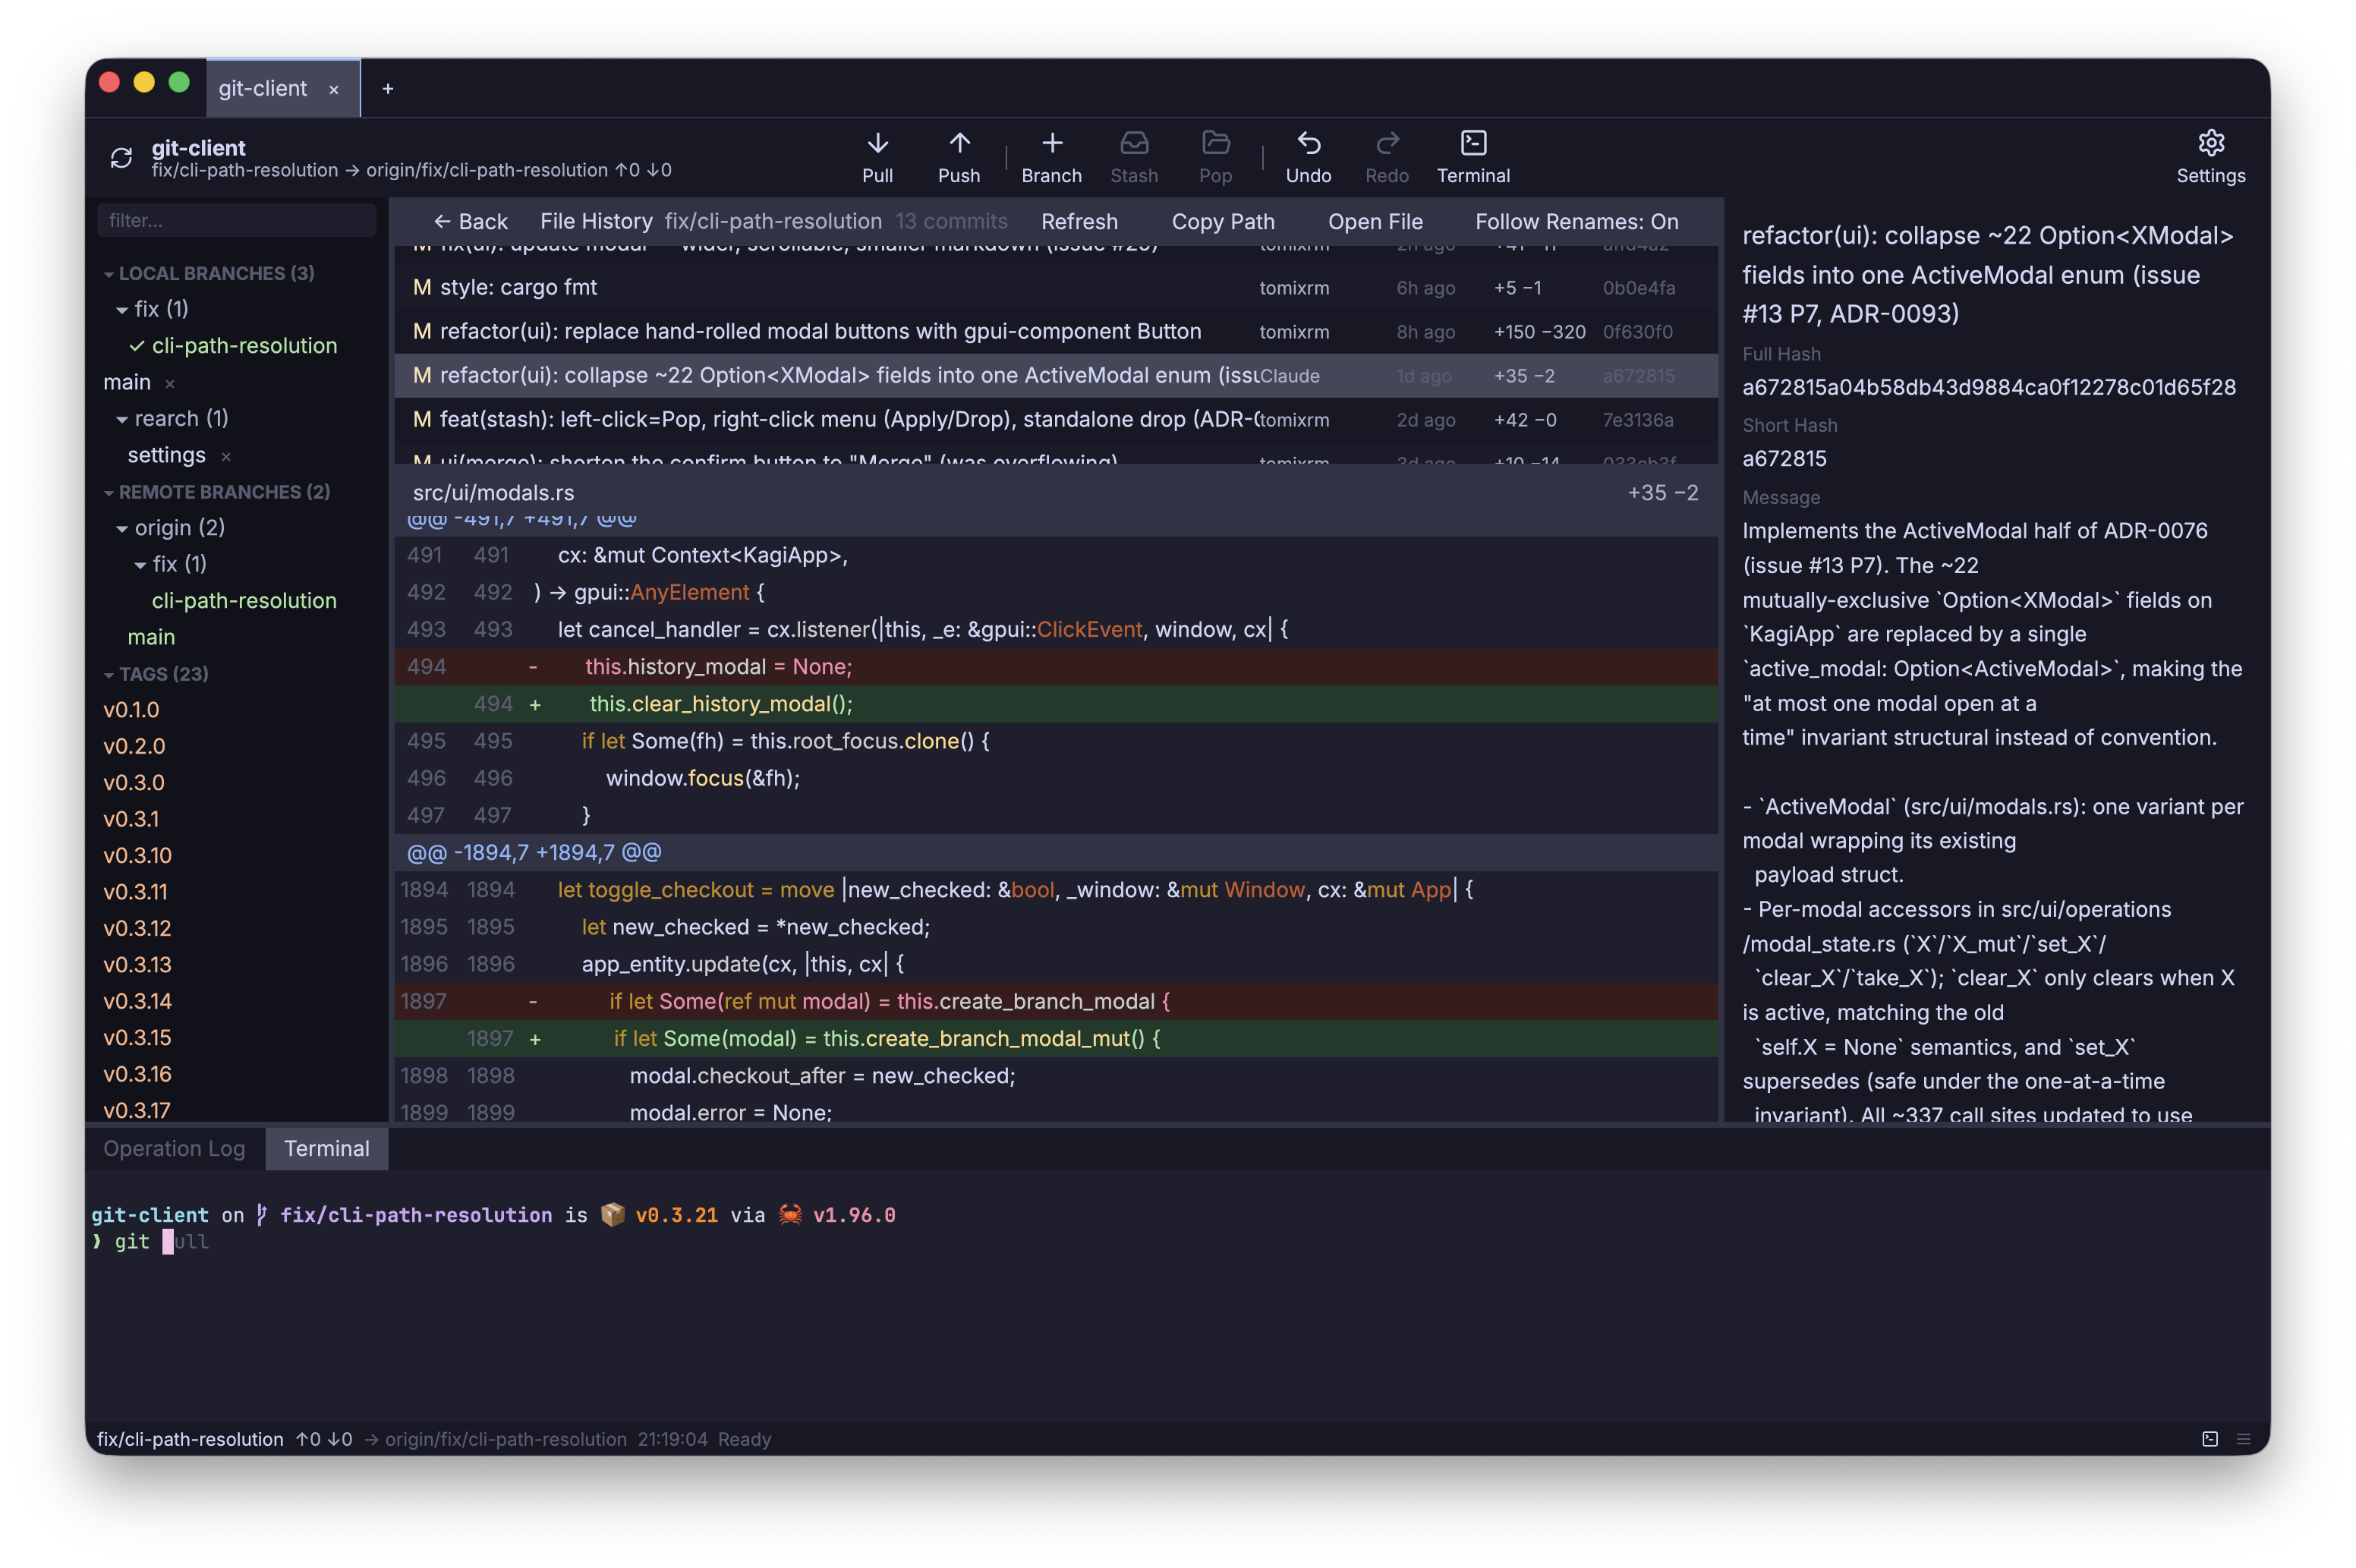
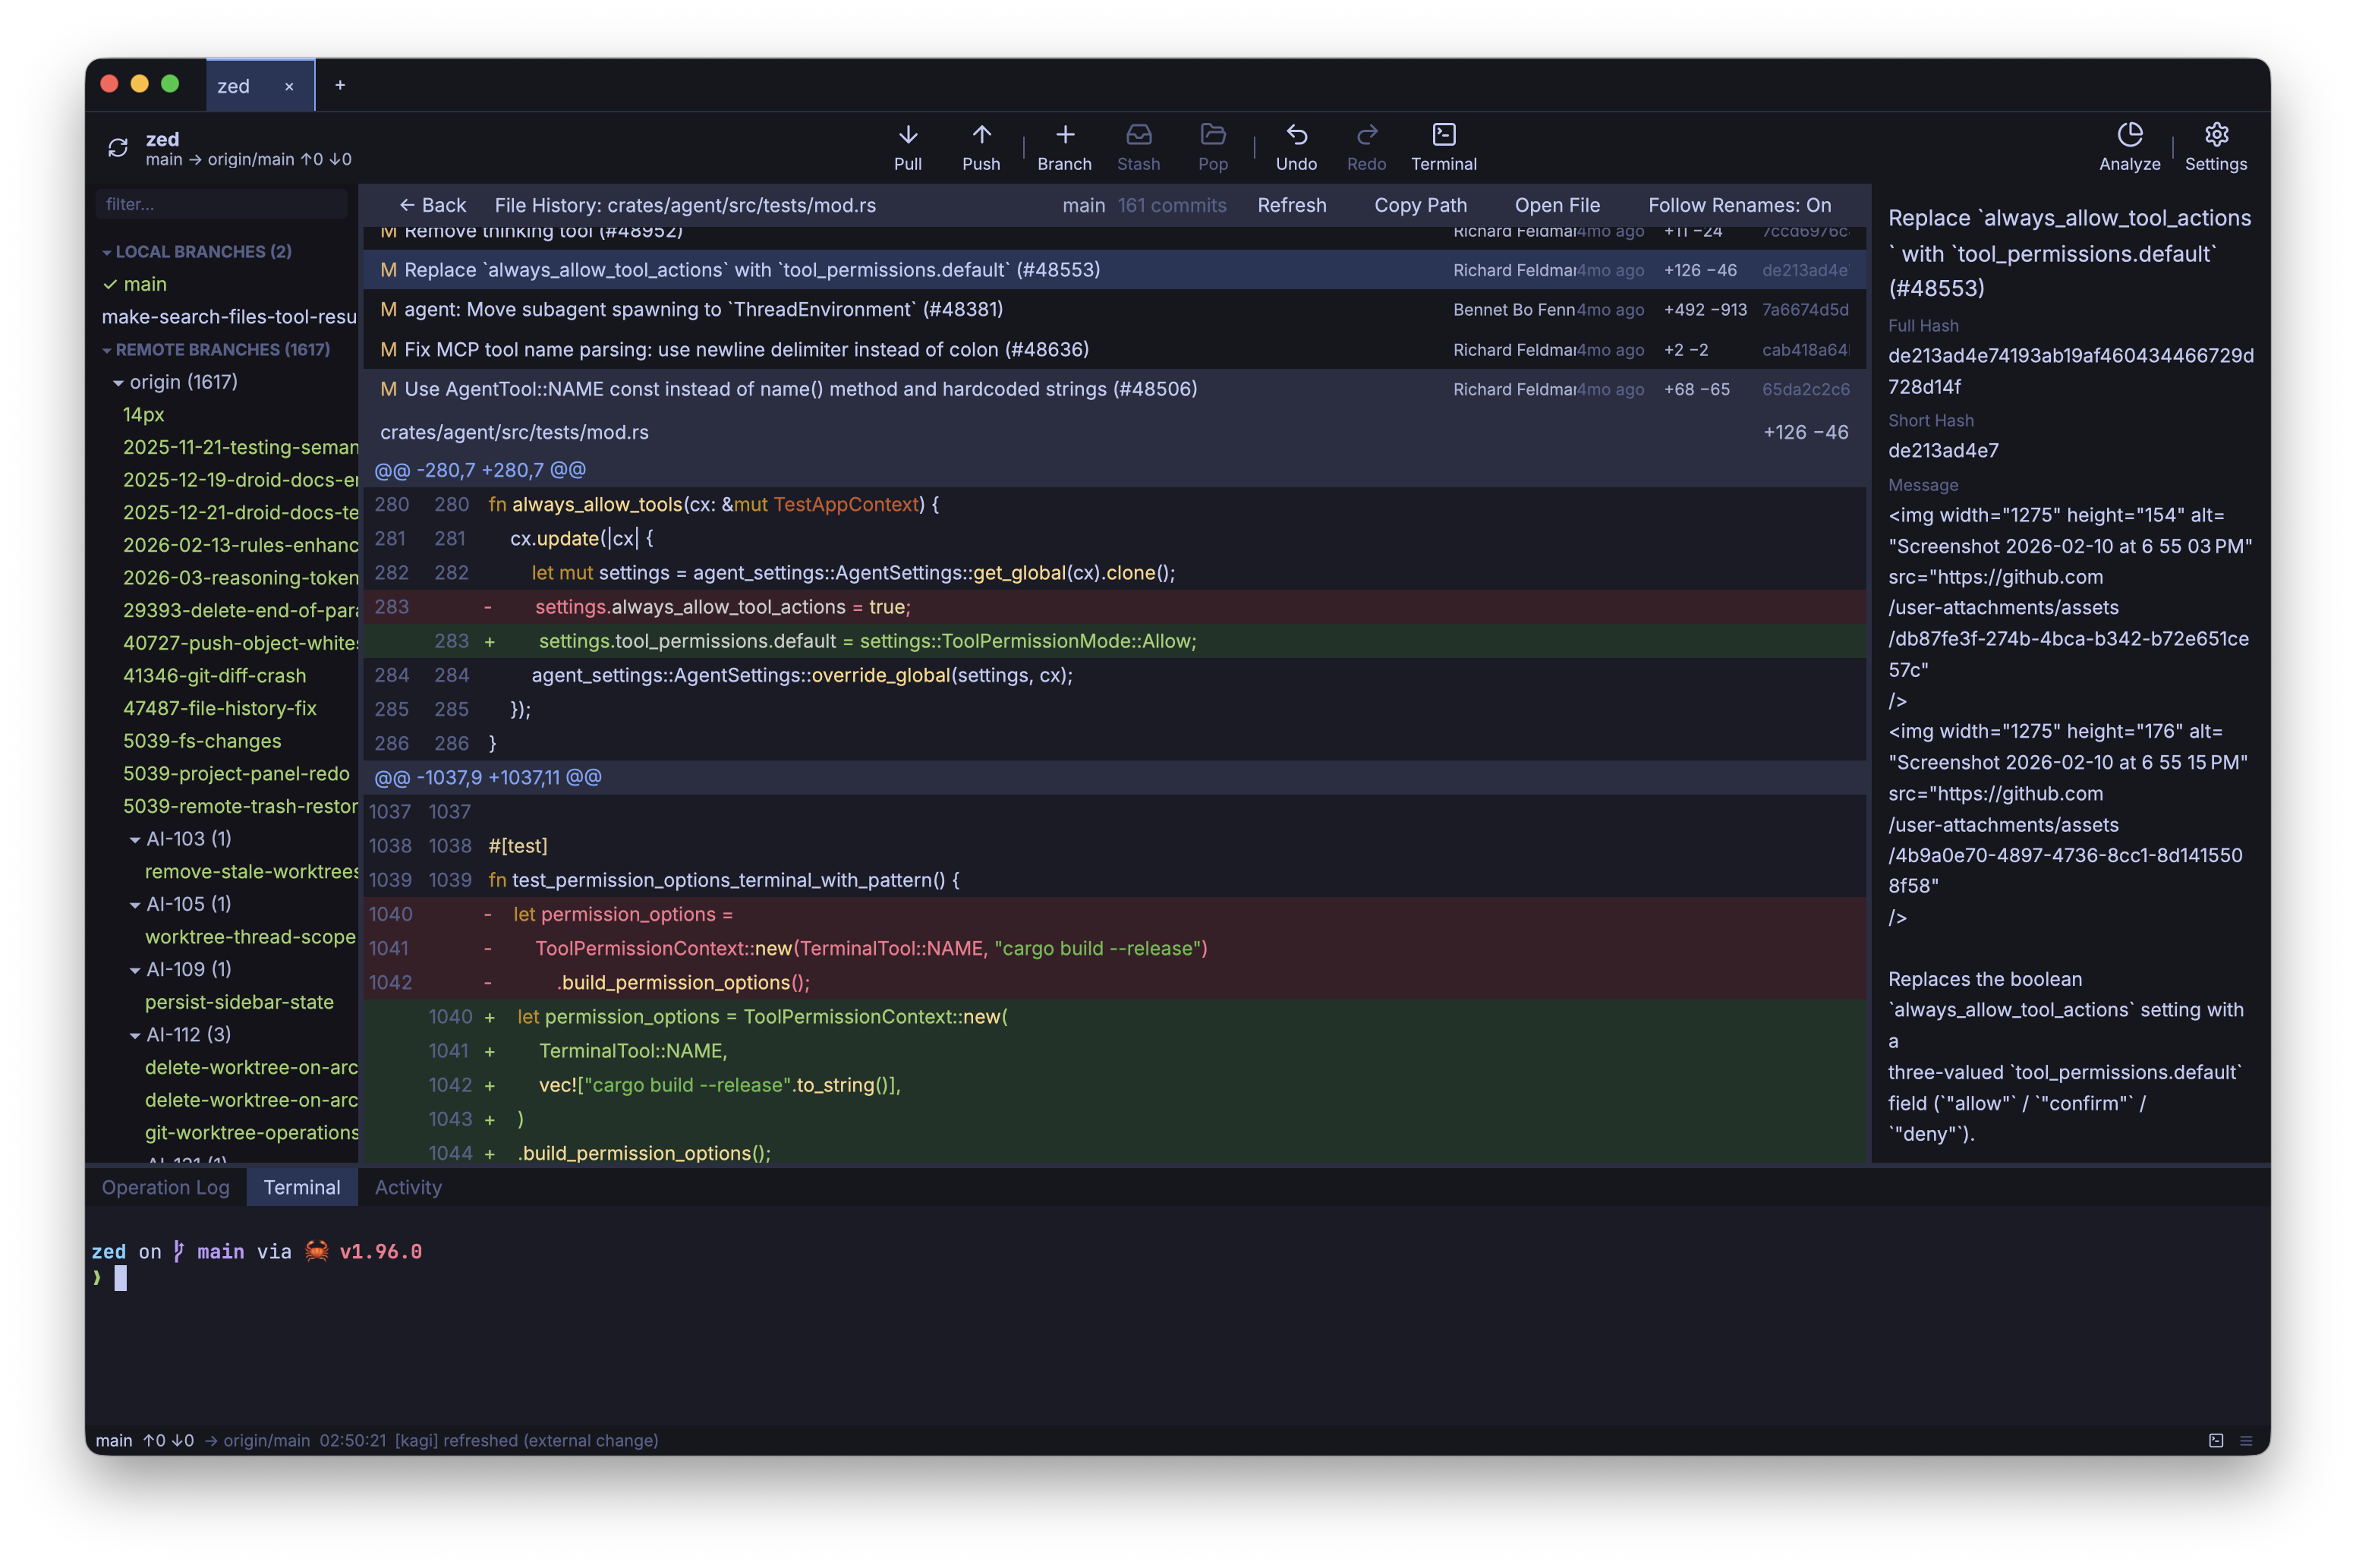
chore: add images

Changed region(s): [[0.0312, 0.031, 0.9688, 0.8364], [0.0312, 0.8984, 0.3125, 0.9293], [0.9375, 0.8984, 0.9688, 0.9293]]

diff --git a/README.md b/README.md
@@ -88,24 +88,9 @@ Select a commit to open the inspector: author, co-authors, and full message; a c
 
 Open **File History** on any file to walk every commit that touched it: the per-file commit list on the left, the selected entry's diff for that file on the right. Step through entries with the arrow keys, **follow renames** back through the file's past, copy its path or open it, and return to the full graph when you're done.
 
-## See where change concentrates
-
-<div align="center">
-<img src="docs/images/analyze.png" width="900" alt="Analyze view — a risk-ranked Hotspots list of files by churn × size, with a window selector, a List / Map toggle, Hotspots / Coupling / Ownership modes, and a Copy diagnostic action" />
-</div>
-
-**Analyze** (a read-only toolbar view, next to Settings) mines your whole Git history into a map of the repo's "code ecosystem" — it adds no write operation and no new Git command, and it's framed as *attention*, never a verdict. Three modes share one **window selector** (Day / Week / Month / Year / All):
-
-- **Hotspots** — files risk-ranked by *churn × size* (how often a file changes, weighted by how large it is): the small fraction that concentrates change, where bugs tend to cluster. View it as a ranked list or a **treemap heatmap** (tile size = LOC, colour = risk).
-- **Coupling** — files that change together (logical/temporal coupling), as a list of partner pairs or a zoomable, pannable **force-directed graph**; export it to Mermaid or open it in mermaid.live.
-- **Ownership** — each file's primary author, their share, and its author count, flagging single-owner / bus-factor-of-one files.
-
-A configurable ignore list (gitignore syntax, edited in Settings) keeps binaries and generated artifacts out of the picture, and **Copy diagnostic** serializes the current view (Markdown / JSON, + Mermaid for Coupling) to the clipboard — LLM-ready context to paste straight into a chat. The history scan is cached, so reopening the view is instant.
-
 ## And the rest of the daily driver
 
 - **Commit suite** — staging with `+N −M` diffstat bars, a pre-commit checklist (conflict markers / secrets / large binaries), per-branch draft autosave, `type(scope): summary` message templates, and amend with a SHA-change preview.
-- **Activity view** — commit and merge charts plus contributor rankings over Day / Week / Month / Year / All windows, with per-bucket tooltips and instant hover read-outs.
 - **Smart commit messages** — rule-based generation always available; a **local Ollama LLM is strictly opt-in** (staged diff only, localhost only, explicit consent).
 - **Async everything** — checkout, commit, stash, pull/push, merge… run off the UI thread with a spinning busy snackbar; the window never freezes.
 - **Make yourself at home** — 11 color themes, English / Japanese UI (Git domain words stay English in both), an integrated terminal, repo tabs, a branch-prefix tree sidebar, an operation log, and uniform UI zoom.